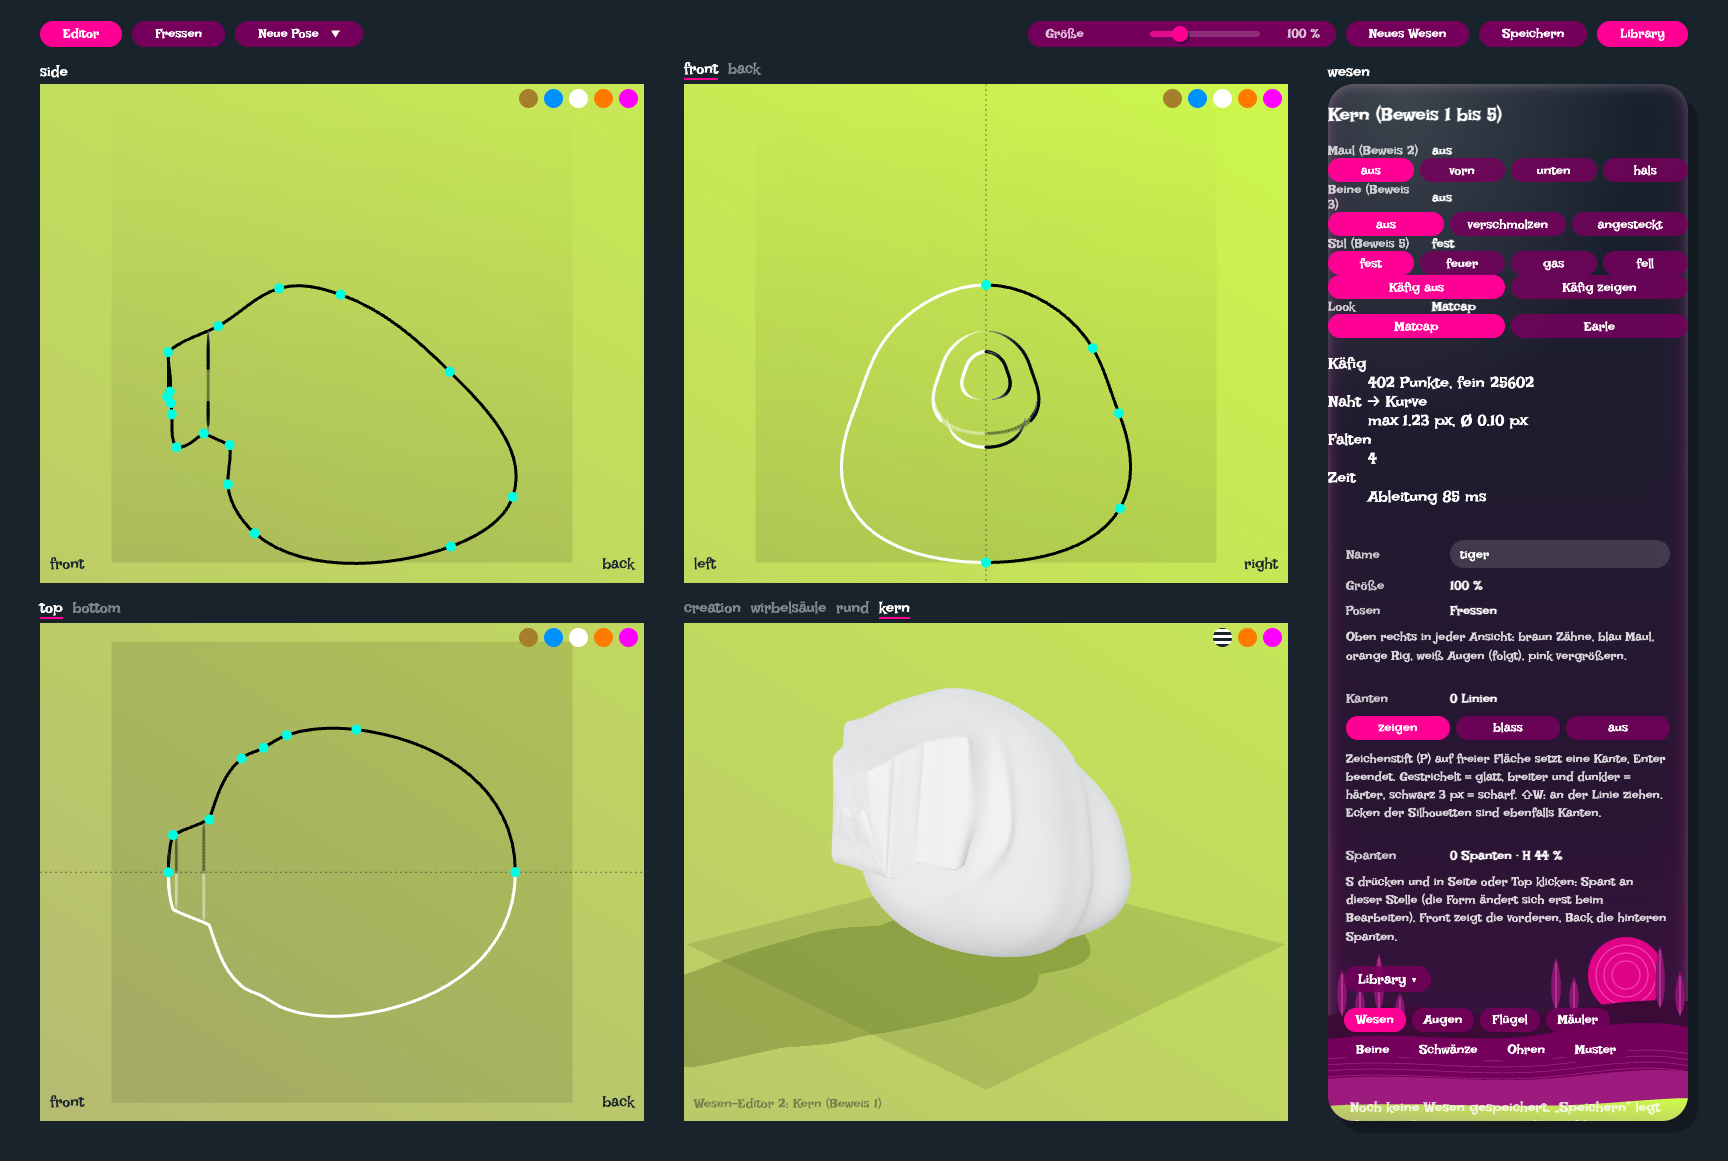
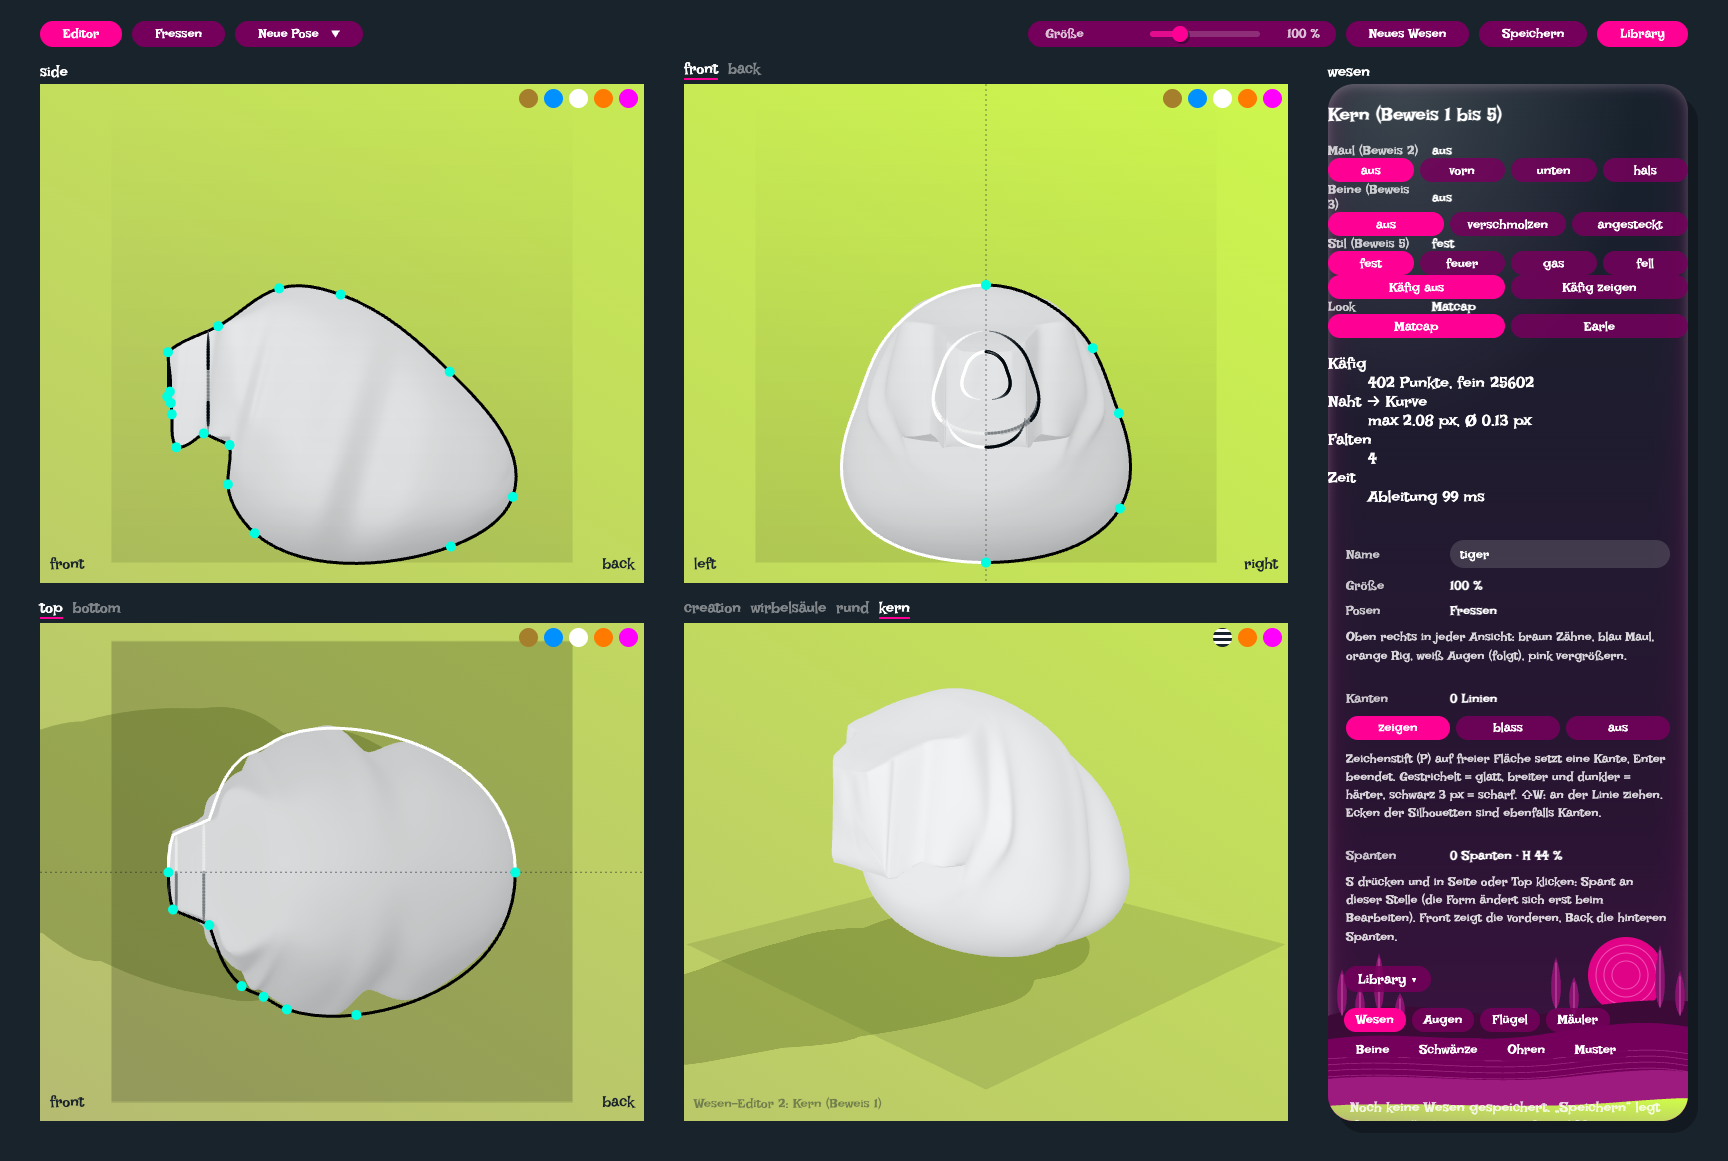
Phase 1 / M2.1 Bühne: die drei Blätter (Seite, Front, Top) zeigen denselben Körper orthografisch hinter den Kurven — eine Szene, vier Kameras (Renderer3D.setzeBlaetter, Kamera je Blatt deckungsgleich mit der 2D-Abbildung, Back = −z, Top von oben mit Bild-y = −z, Bottom von unten ohne Bodenplatte); T

diff --git a/apps/editor/src/three/Renderer3D.ts b/apps/editor/src/three/Renderer3D.ts
@@ -28,9 +28,15 @@ import {
   Vector4,
   WebGPURenderer,
   DataTexture,
+  OrthographicCamera,
 } from 'three/webgpu';
 import { type AtlasDaten, type Auge, type Gesicht, PALETTEN, type Palette } from './wesenLook';
-import type { Kamera } from '../state/uiStore';
+import type { Ansicht2D, Kamera } from '../state/uiStore';
+import type { Ansicht, Blick } from '@ee/shape';
+import { massstab } from '../viewports/ansicht2d';
+
+/** Blatt (Seite, Front, Top): Rechteck, 2D-Ansicht (Zoom, Mitte) und Blickrichtung — die Bühne rendert den Körper dahinter. */
+export type Blatt = { rect: Rect; ansicht: Ansicht2D; blick: Blick };
 import type { Rect } from '../types';
 import { kameraPosition } from './kamera';
 import { blenderMatcap, zebraMatcap } from './matcap';
@@ -51,6 +57,10 @@ export class Renderer3D {
   private readonly koerper: Mesh;
   private geometrie = new BufferGeometry();
   private rect: Rect | null = null;
+  /** Blätter (M2): dieselbe Szene mit orthografischen Kameras in Seite, Front, Top */
+  private blaetter: Partial<Record<Ansicht, Blatt>> = {};
+  private readonly ortho = new OrthographicCamera(-1, 1, 1, -1, 0.01, 60);
+  private boden: Mesh | null = null;
   private linien: LineSegments | null = null;
   private kameraZustand: Kamera | null = null;
   private angefordert = false;
@@ -128,6 +138,7 @@ export class Renderer3D {
     boden.receiveShadow = true;
     boden.renderOrder = 2;
     this.szene.add(boden);
+    this.boden = boden;
 
     const sonne = new DirectionalLight(0xffffff, 1);
     sonne.position.set(SONNE[0] * 5, SONNE[1] * 5, SONNE[2] * 5);
@@ -446,6 +457,46 @@ export class Renderer3D {
     this.anfordern();
   }
 
+  /** Blätter (M2): Rechtecke, 2D-Ansichten und Blicke von Seite, Front, Top; fehlt ein Blatt, wird es nicht gezeichnet. */
+  setzeBlaetter(b: Partial<Record<Ansicht, Blatt>>) {
+    this.blaetter = b;
+    this.anfordern();
+  }
+
+  /**
+   * Orthografische Kamera eines Blatts, deckungsgleich mit `zuBild` der 2D-Ansicht: Maßstab s px je Welteinheit, Mitte
+   * (cu, cv) in Blattkoordinaten. Seite: x rechts, y oben. Front: Bild-x = +z (Back: −z). Top: von oben, Bild-y = −z
+   * (Bottom: von unten, Bild-y = +z), siehe `spiegeln2`.
+   */
+  private blattKamera(ansicht: Ansicht, b: Blatt) {
+    const { w, h } = b.rect;
+    const s = massstab(b.ansicht, w, h);
+    const hw = w / (2 * s);
+    const hh = h / (2 * s);
+    const cam = this.ortho;
+    cam.left = -hw;
+    cam.right = hw;
+    cam.top = hh;
+    cam.bottom = -hh;
+    const { cu, cv } = b.ansicht;
+    if (ansicht === 'seite') {
+      cam.position.set(cu, cv, 20);
+      cam.up.set(0, 1, 0);
+      cam.lookAt(cu, cv, 0);
+    } else if (ansicht === 'front') {
+      const hinten = b.blick === 'hinten';
+      cam.position.set(hinten ? 20 : -20, cv, hinten ? -cu : cu);
+      cam.up.set(0, 1, 0);
+      cam.lookAt(0, cv, hinten ? -cu : cu);
+    } else {
+      const unten = b.blick === 'unten';
+      cam.position.set(cu, unten ? -20 : 20, unten ? cv : -cv);
+      cam.up.set(0, 0, unten ? 1 : -1);
+      cam.lookAt(cu, 0, unten ? cv : -cv);
+    }
+    cam.updateProjectionMatrix();
+  }
+
   setzeKamera(k: Kamera) {
     this.kameraZustand = k;
     this.anfordern();
@@ -496,6 +547,17 @@ export class Renderer3D {
     rd.setScissorTest(true);
     this.kameraStellen(r.w / r.h);
     rd.render(this.szene, this.kamera);
+    // Blätter (M2): dieselbe Szene orthografisch in Seite, Front, Top; von unten ohne Bodenplatte
+    for (const ansicht of ['seite', 'front', 'top'] as const) {
+      const b = this.blaetter[ansicht];
+      if (!b || b.rect.w < 2 || b.rect.h < 2) continue;
+      this.blattKamera(ansicht, b);
+      rd.setViewport(b.rect.x, b.rect.y, b.rect.w, b.rect.h);
+      rd.setScissor(b.rect.x, b.rect.y, b.rect.w, b.rect.h);
+      if (this.boden) this.boden.visible = !(ansicht === 'top' && b.blick === 'unten');
+      rd.render(this.szene, this.ortho);
+    }
+    if (this.boden) this.boden.visible = true;
     return true;
   }
 

diff --git a/apps/editor/src/three/Szene3D.tsx b/apps/editor/src/three/Szene3D.tsx
@@ -204,6 +204,22 @@ export function Szene3D() {
       r.setzeKamera(useUi.getState().kamera);
       r.setzeZebra(useUi.getState().zebra);
       r.setzeRect(useRahmen.getState().rects?.creation ?? null);
+      // Blätter (M2): Seite, Front, Top zeigen denselben Körper orthografisch hinter den Kurven (nur Bauweise „kern“)
+      const blaetter = () => {
+        const rects = useRahmen.getState().rects;
+        const ui = useUi.getState();
+        if (!rects || ui.bauweise !== 'kern') return r.setzeBlaetter({});
+        r.setzeBlaetter({
+          seite: { rect: rects.seite, ansicht: ui.ansichten.seite, blick: 'seite' },
+          front: { rect: rects.front, ansicht: ui.ansichten.front, blick: ui.blick.front },
+          top: { rect: rects.top, ansicht: ui.ansichten.top, blick: ui.blick.top },
+        });
+      };
+      blaetter();
+      abmelden.push(
+        useRahmen.subscribe(blaetter),
+        useUi.subscribe((s, v) => (s.ansichten !== v.ansichten || s.blick !== v.blick || s.bauweise !== v.bauweise) && blaetter()),
+      );
       abmelden.push(
         useEditor.subscribe((s, v) => {
           const geaendert =

diff --git a/apps/editor/src/viewports/ansicht2d.ts b/apps/editor/src/viewports/ansicht2d.ts
@@ -6,10 +6,14 @@ import type { Ansicht2D } from '../state/uiStore';
 
 export const KACHEL_ANTEIL = 0.925;
 
-/** Back spiegelt waagerecht (z → −z), Bottom senkrecht (Bild-y = z → −z); die Spiegelung ist ihr eigenes Inverses. */
+/**
+ * Back spiegelt waagerecht (Bild-x = −z). Top spiegelt senkrecht (Bild-y = −z): Von oben gesehen, Schnauze links, zeigt
+ * +z nach unten; die editierbare Hälfte des Top-Profils (+z) liegt deshalb unter der Achse. Bottom (von unten) zeigt
+ * +z nach oben. So decken sich die Blätter mit den orthografischen Kameras der Bühne (M2). Die Spiegelung ist ihr eigenes Inverses.
+ */
 export function spiegeln2(blick: Blick, p: V2): V2 {
   if (blick === 'hinten') return { x: -p.x, y: p.y };
-  if (blick === 'unten') return { x: p.x, y: -p.y };
+  if (blick === 'top') return { x: p.x, y: -p.y };
   return p;
 }
 const ZOOM_MIN = 0.08;
